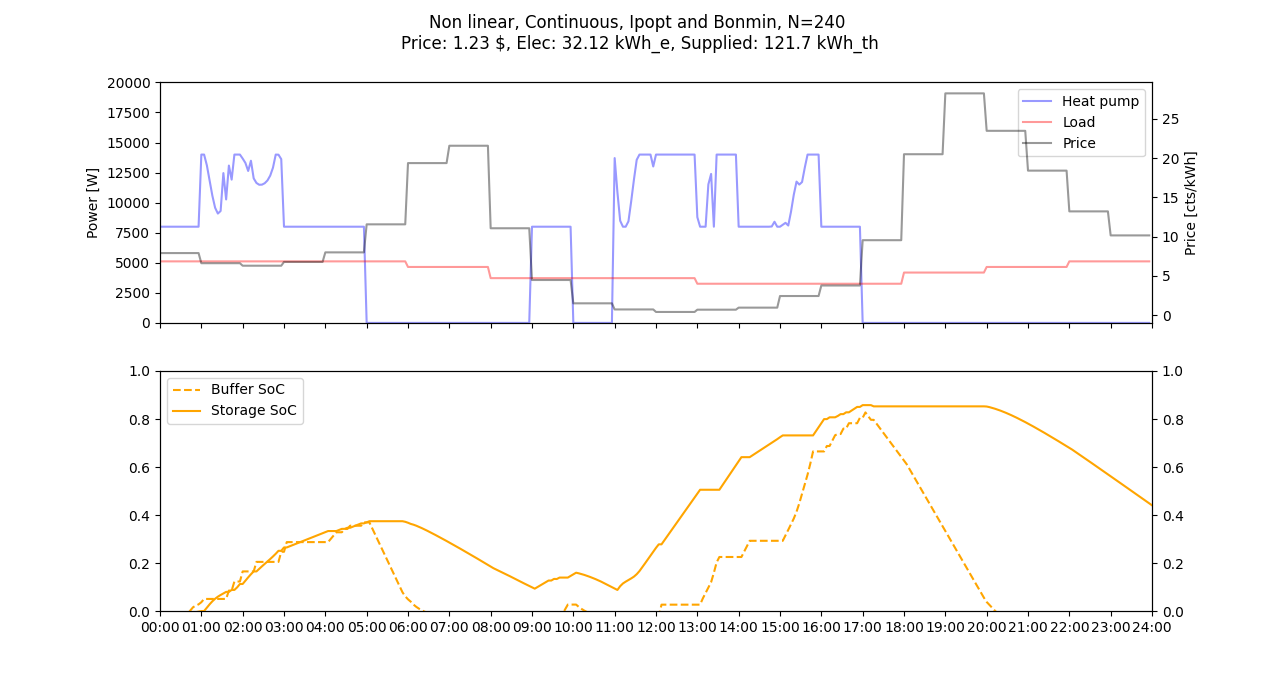
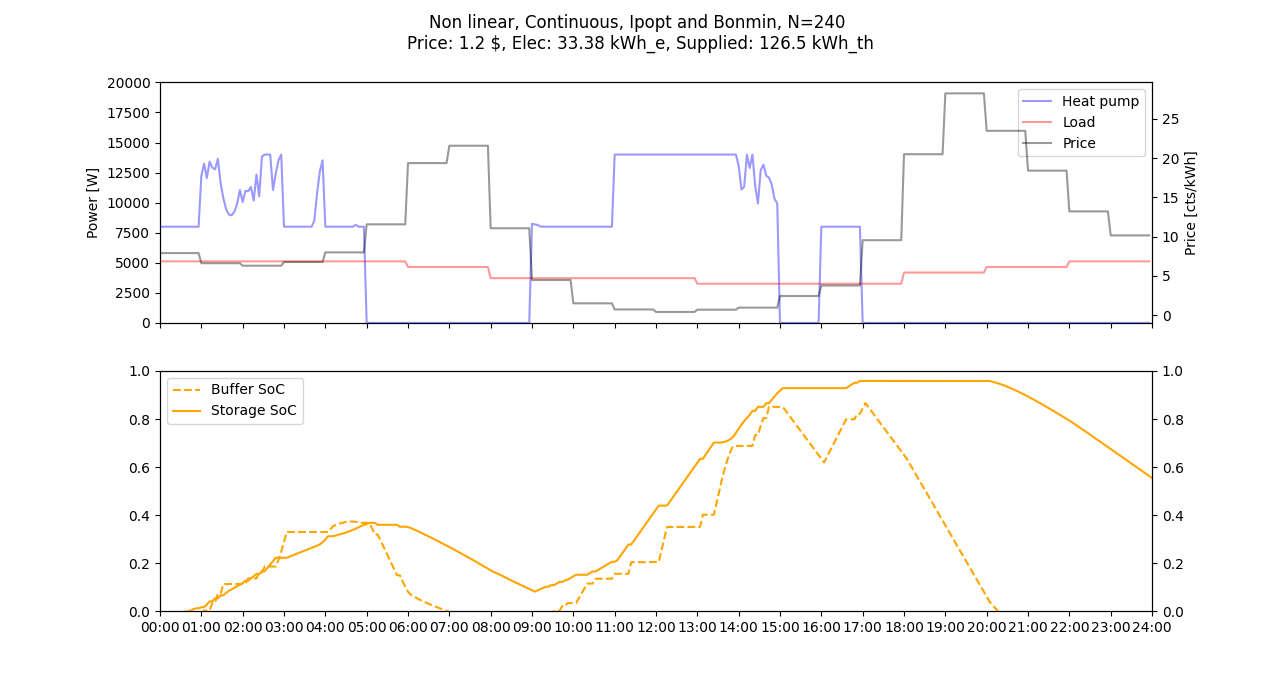
Added maximum storage safety discharge

diff --git a/gridworks/sequencer.py b/gridworks/sequencer.py
@@ -181,7 +181,7 @@ def get_optimal_sequence(iter, previous_sequence, results_file, attempt, long_se
             print(f"\nIncreased load by {(attempt-1)*25}%")
 
             # Get the recommendation for the increased load
-            Q_opt, stor_opt, HP_on_off_opt, obj_opt = get_opti(N, c_el, load_increased, max_storage, initial_storage, Q_HP_min_list, Q_HP_max_list, COP1_list)
+            Q_opt, stor_opt, HP_on_off_opt, obj_opt = get_opti(N, c_el, load_increased, max_storage, initial_storage, Q_HP_min_list, Q_HP_max_list, COP1_list, too_hot)
             
             # Next iteration if no operating hour change
             attempt += 1
